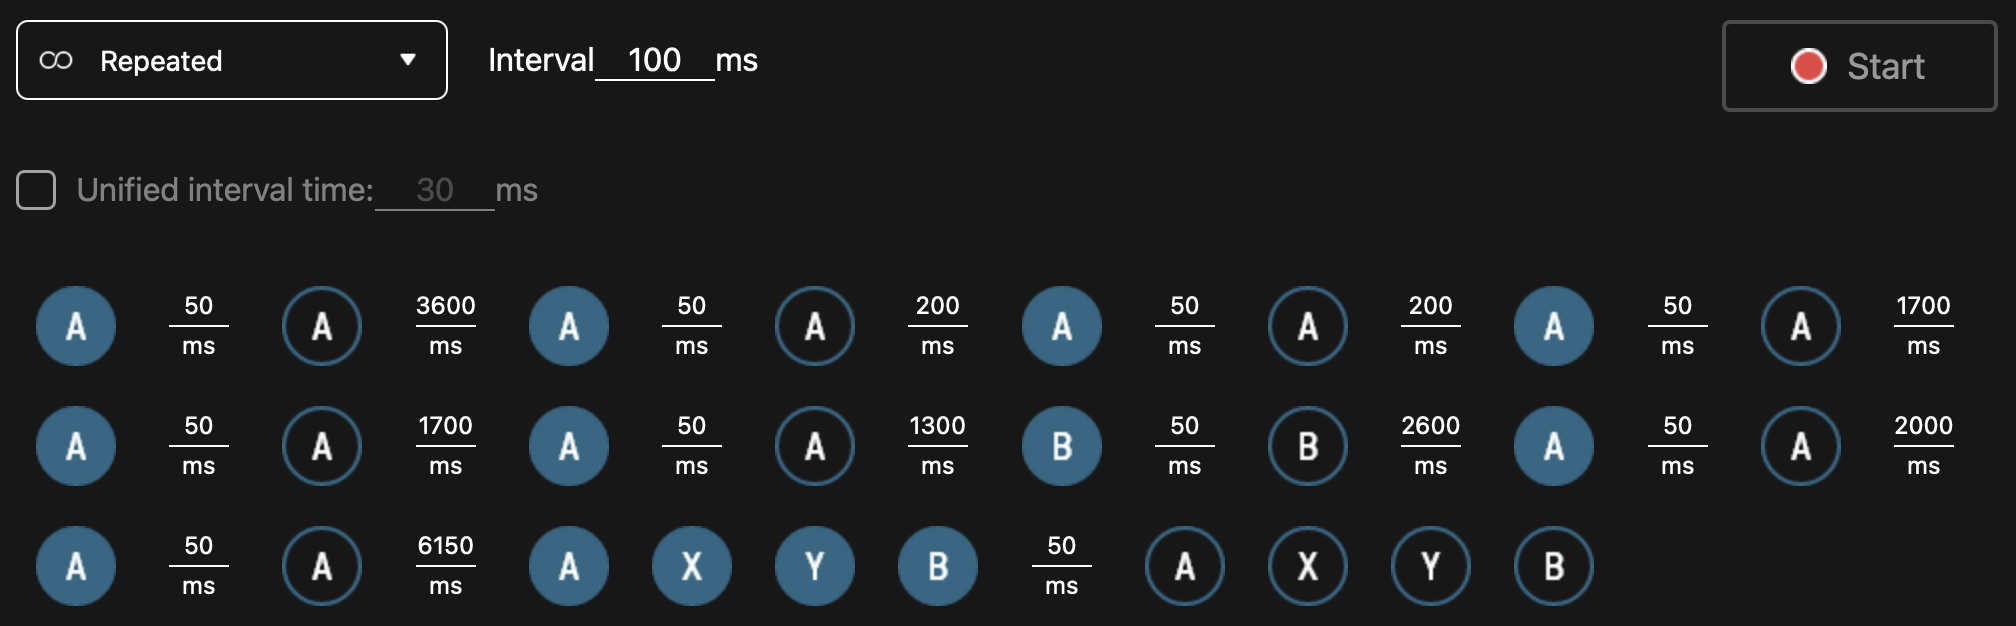
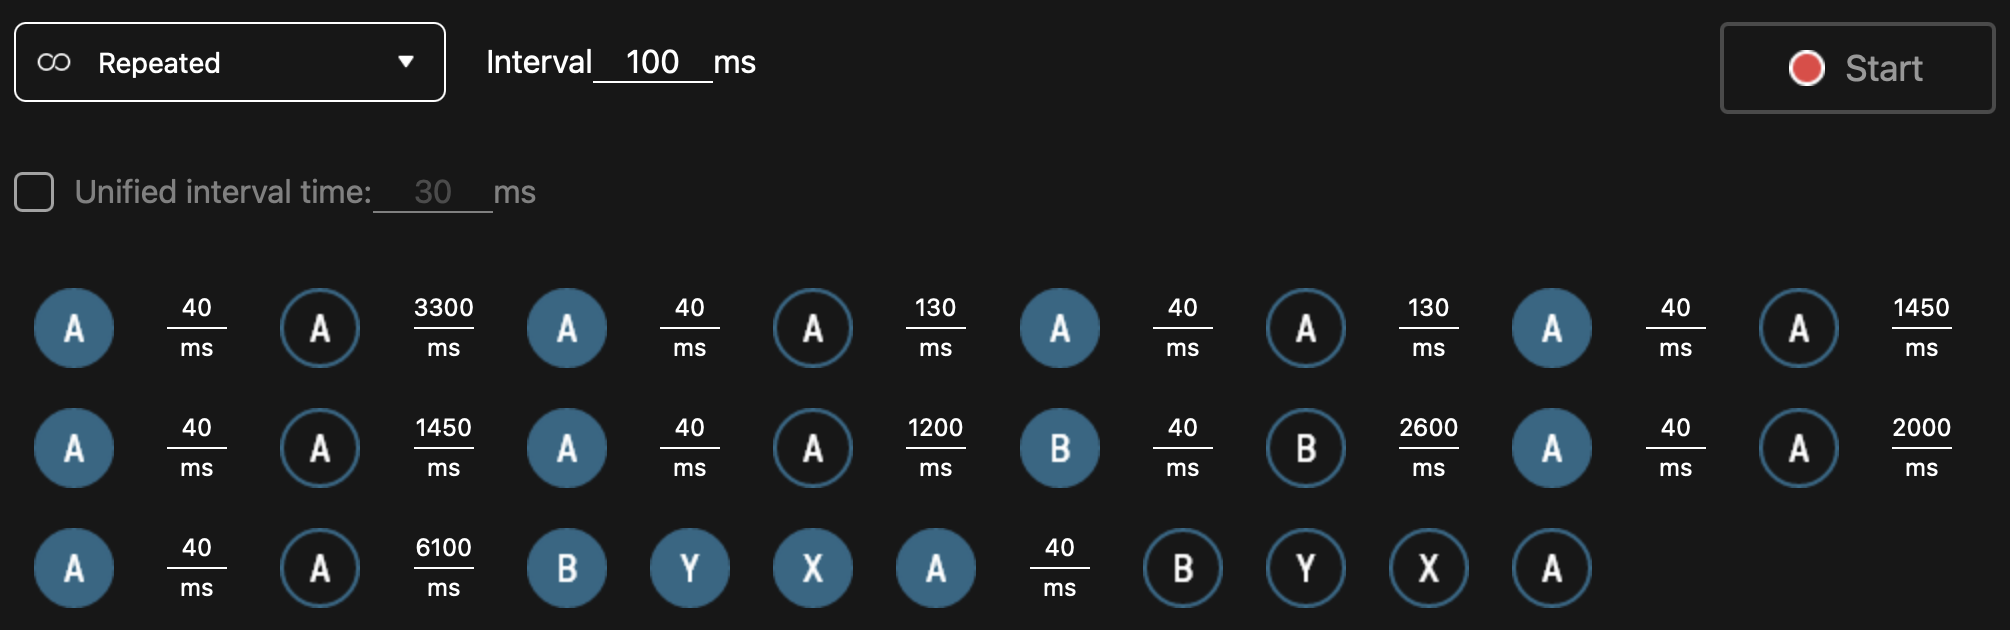
CHG: shortend macro

diff --git a/README.md b/README.md
@@ -20,7 +20,7 @@ The macro used in this project is shown in the image above. The image is taken f
 
 It is supposed to be started on the screen with the copyright notices. Once started it loads the save file, skips the following recap and starts the fight with a stationary legendary pokemon.
 
-One cycle takes approximately 20 seconds.
+One cycle takes approximately 18.8 seconds.
 
 ## Hardware
 
